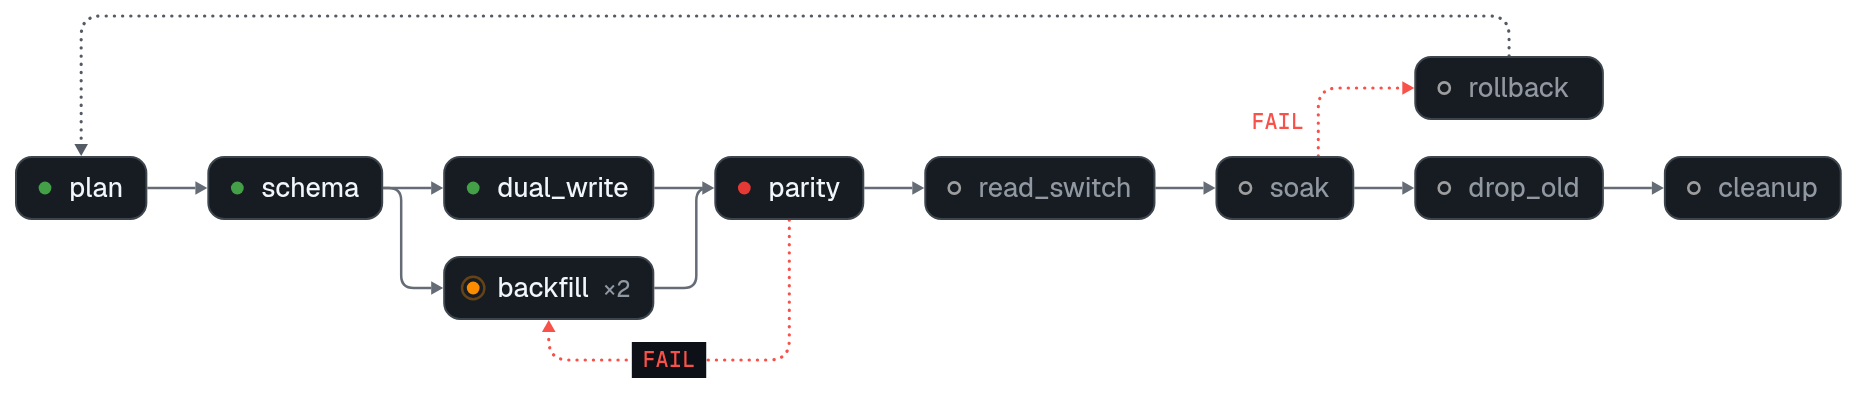
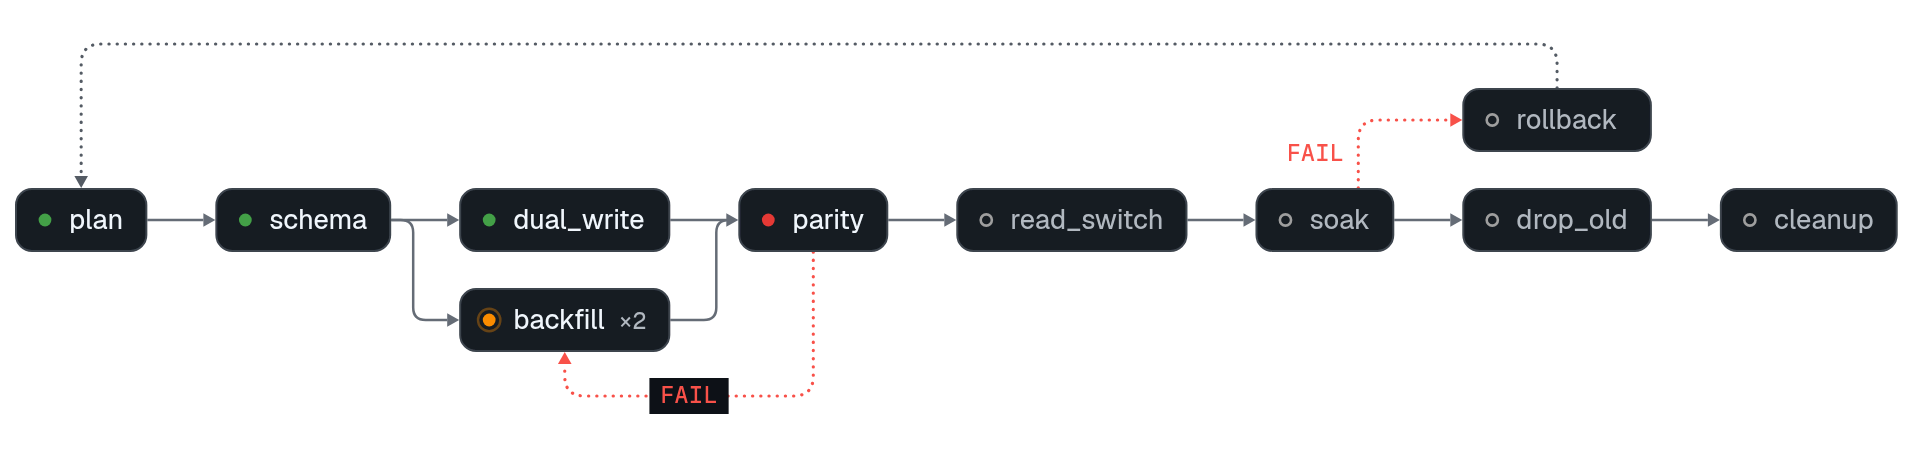
docs(workgraph): more breathing room, brighter pending labels, sans colour key

diff --git a/workgraph/README.md b/workgraph/README.md
@@ -23,7 +23,7 @@ back to `plan`.
 
 <picture>
   <source media="(prefers-color-scheme: dark)" srcset="./assets/graph-legend-dark.png">
-  <img src="./assets/graph-legend-light.png" width="754" alt="Key: hollow gray dot PENDING, blue READY, orange RUNNING, green VERIFIED, red FAILED, purple ESCALATED; red dotted line = FAIL edge; gray dotted line = loop back; ×N = visit count">
+  <img src="./assets/graph-legend-light.png" width="738" alt="Key: hollow gray dot PENDING, blue READY, orange RUNNING, green VERIFIED, red FAILED, purple ESCALATED; red dotted line = FAIL edge; gray dotted line = loop back; ×N = visit count">
 </picture>
 
 ### Multi-source research report with fact-check and revision
@@ -35,7 +35,7 @@ second check is running now. A `critic` FAIL goes back to `synth`.
 
 <picture>
   <source media="(prefers-color-scheme: dark)" srcset="./assets/graph-research-report-dark.png">
-  <img src="./assets/graph-research-report-light.png" width="639" alt="Research report graph: scope, papers, filings, news, synth and revise verified; forums escalated; fact_check ×2 running; critic and publish pending">
+  <img src="./assets/graph-research-report-light.png" width="638" alt="Research report graph: scope, papers, filings, news, synth and revise verified; forums escalated; fact_check ×2 running; critic and publish pending">
 </picture>
 
 ### Release with a test matrix, canary and rollback
